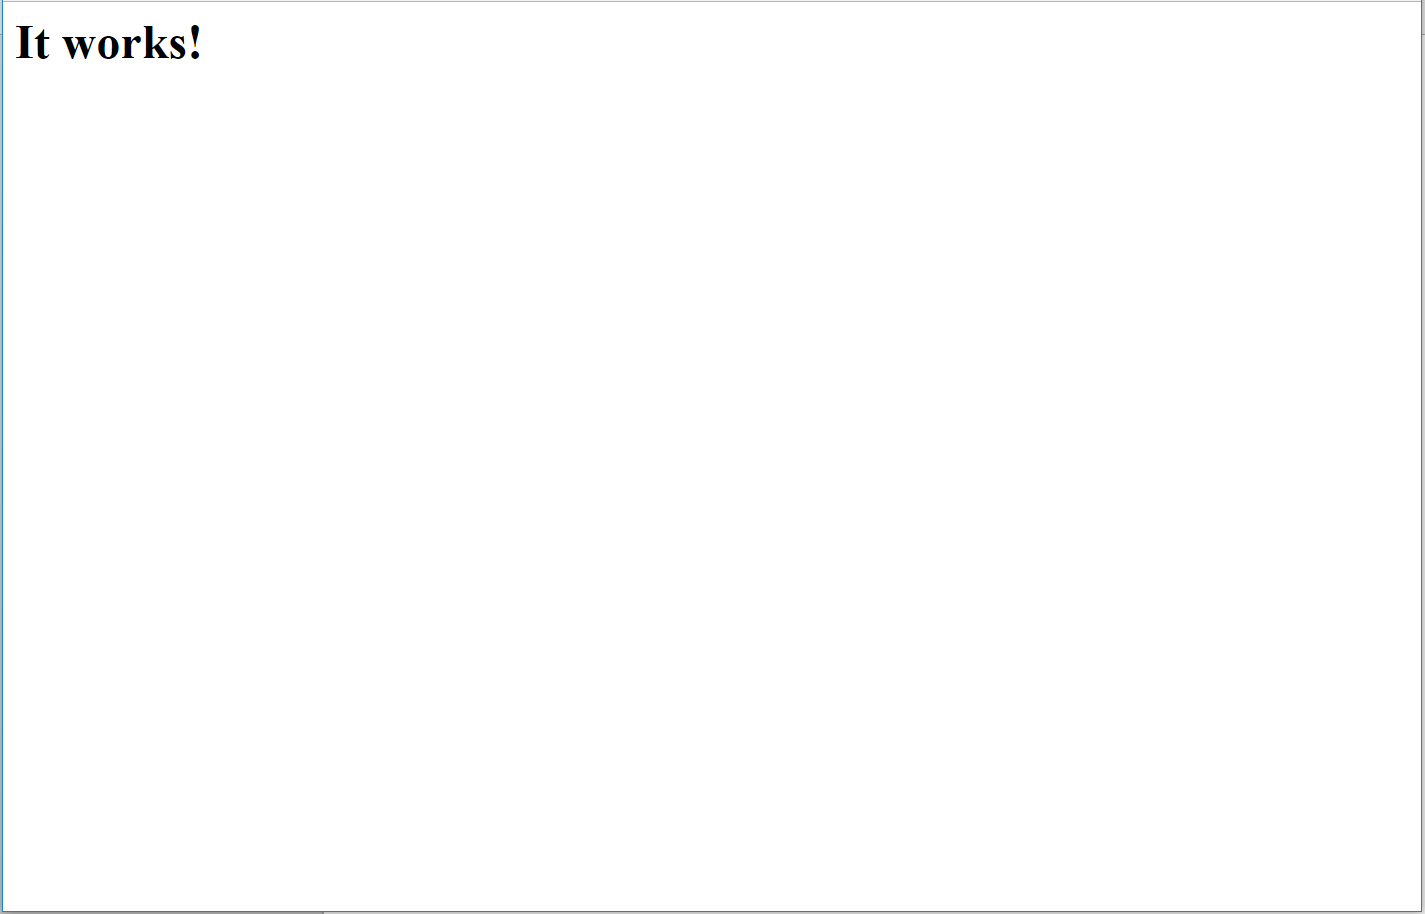
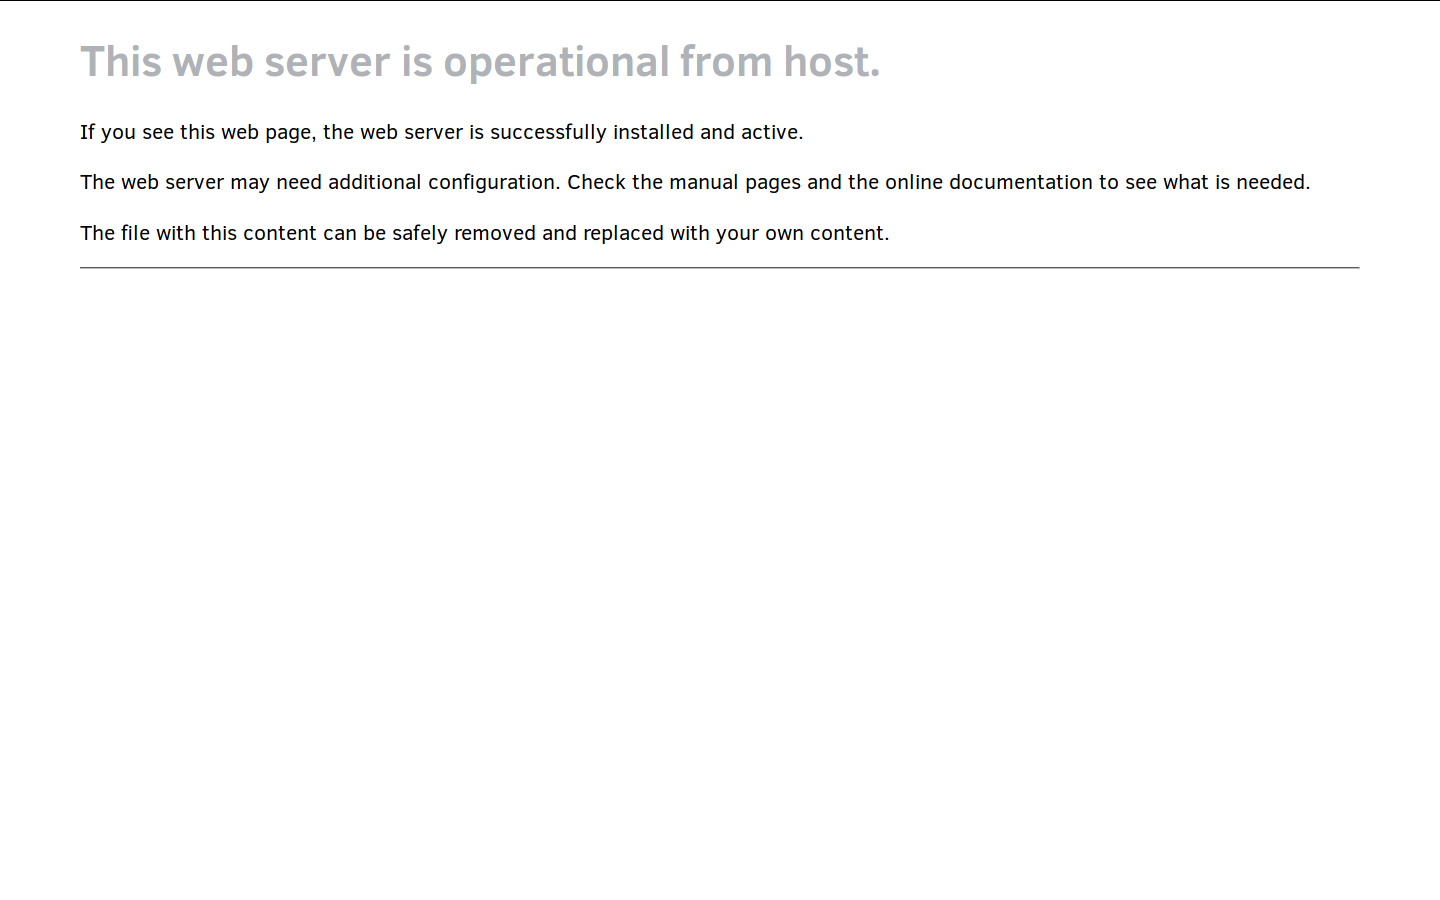
Update web server install tutorial screenshots
The first two screenshots in the web server install tutorial
don't correspond to the default configuration in the latest
version of the Apache and PHP servers (as tested on
VERSION_ID=20490).

This commit updates both screenshots and the text that refers
to them in the document.

diff --git a/source/clear-linux/tutorials/web-server-install/web-server-install.rst b/source/clear-linux/tutorials/web-server-install/web-server-install.rst
@@ -61,11 +61,11 @@ To start the Apache service, enter the following commands:
 To verify that the Apache server application is running, go to your web
 browser and navigate to: http://localhost
 
-If the service is running you will see the message “It works!” on your
-browser as shown in figure 1.
+If the service is running you will see the message "This web server is
+operational from host." on your browser as shown in figure 1.
 
 .. figure:: figures/web-server-install-1.png
-    :alt: It works!
+    :alt: This web server is operational from host.
     :scale: 50%
 
     Confirmation the Apache service is running.
@@ -129,7 +129,8 @@ Finally, let’s create the new ``DocumentRoot`` directory structure and copy th
 
 To make sure that we have everything set correctly, let’s edit the new
 :file:`index.html` file with your editor and change the text from
-``It works`` to ``It works in it’s new location``.
+"This web server is operational from host." to
+"This web server is operational from its new location.".
 
 With the new configuration files in place, you will need to stop and then
 restart the ``httpd.service``.
